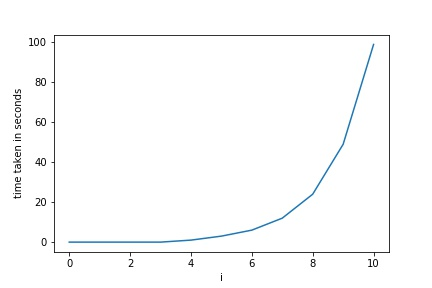
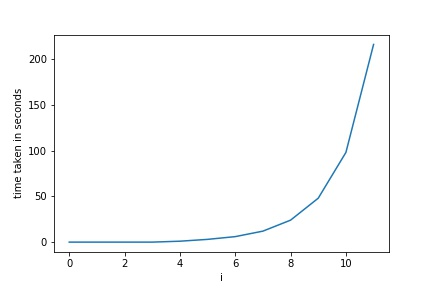
V2

diff --git a/main.c b/main.c
@@ -1,0 +1,70 @@
+//
+//  main.c
+//  2d_convolution
+//
+//  Created by Bowen Wei on 8/29/17.
+//  Copyright © 2017 bowen wei. All rights reserved.
+//
+
+#include <stdio.h>
+#include <stdlib.h>
+#include <math.h>
+#include <time.h>
+#include <unistd.h>
+
+int main(int argc, const char * argv[]) {
+    int N_i;
+    int in_channel=3;
+    int o_channel;
+    int kernel_size=3;
+    int stride=1;
+    int half_size=kernel_size/2;
+    int image_size_x=119;
+    int image_size_y=119;
+    int o_size_x=(image_size_x-half_size*2)/stride;
+    int o_size_y=(image_size_y-half_size*2)/stride;
+    int image[image_size_x][image_size_y][in_channel];
+    int i,j,k,i1,i2,j1,j2,x_c,y_c,sum;
+    
+    for (i=0;i<image_size_x;i++){
+        for (j=0;j<image_size_y;j++){
+            for (k=0;k<in_channel;k++){
+                image[i][j][k]=rand()%256;
+            }
+        }
+    }
+    struct timeval t1, t2;
+    int kernel[kernel_size][kernel_size];
+    for (N_i=0;N_i<12;N_i++){
+        int o_channel_max=pow(2,N_i);
+        //int o_image[o_size_x][o_size_y][o_channel_max];
+        gettimeofday(&t1, NULL);
+        for (o_channel=0;o_channel<o_channel_max;o_channel++){
+            for (i=0;i<kernel_size;i++){
+                for (j=0;j<kernel_size;j++){
+                    kernel[i][j]=rand()%256;
+                }
+            }
+            for (i1=0;i1<o_size_x;i1++){
+                for (j1=0;j1<o_size_y;j1++){
+                    x_c=half_size+i1*stride;
+                    y_c=half_size+j1*stride;
+                    sum=0;
+                    for (i2=0;i2<kernel_size;i2++){
+                        for (j2=0;j2<kernel_size;j2++){
+                            for(k=0;k<in_channel;k++){
+                                sum+=kernel[i2][j2]*image[x_c-half_size+i2][y_c-half_size+j2][k];
+                            }
+                        }
+                    }
+                    //o_image[i1][j1][o_channel]=sum;
+                }
+            }
+        }
+        gettimeofday(&t2, NULL);
+        double time_spent = (double)(t2.tv_sec - t1.tv_sec);
+        time_spent+=(t2.tv_usec - t1.tv_usec) / 1000000.0;
+        printf("i=%d,time_taken:%f\n",N_i,time_spent);
+    }
+    return 0;
+}

diff --git a/main.py b/main.py
@@ -35,16 +35,16 @@ plt.ylabel('number of operation')
 plt.xlabel('kernel size')
 plt.savefig('operation.jpg')
 #%%
-time_taken=np.zeros(11,dtype=np.int)
+time_taken=np.zeros(12,dtype=np.int)
 n=0
-for k in np.power(2,range(0,11)):
+for k in np.power(2,range(0,12)):
     conv2d = Conv2D(in_channel=3, o_channel=k, kernel_size=1, stride=1,mode='rand')
     start=time.clock()
     [num_operation,output_image] = conv2d.forward(input_image)
     time_taken[n]=time.clock()-start
     n+=1
  #%%
-plt.plot(range(0,11),time_taken)
+plt.plot(range(0,12),time_taken)
 plt.ylabel('time taken in seconds')
 plt.xlabel('i')
 plt.savefig('time_taken.jpg')

diff --git a/readme.md b/readme.md
@@ -47,3 +47,8 @@ I choose the 1280X720 image above for this part
 ![](https://purdue0-my.sharepoint.com/personal/wei209_purdue_edu/_layouts/15/guestaccess.aspx?docid=1258fb4333c2b434a8a4be15bff048c08&authkey=Ab6DZZ_wef_Wdxb0H0cWCaw)
 
 ## part D
+I use the same size image in B.
+#### time taken for operation as a function of i in C:
+![](https://purdue0-my.sharepoint.com/personal/wei209_purdue_edu/_layouts/15/guestaccess.aspx?docid=1017b72c0d6654a1c8e64db0cb0d257f7&authkey=AXW3qq38tkmJ4-MV58oPCMg)
+
+compared to result in part B, C runs faster than python.
